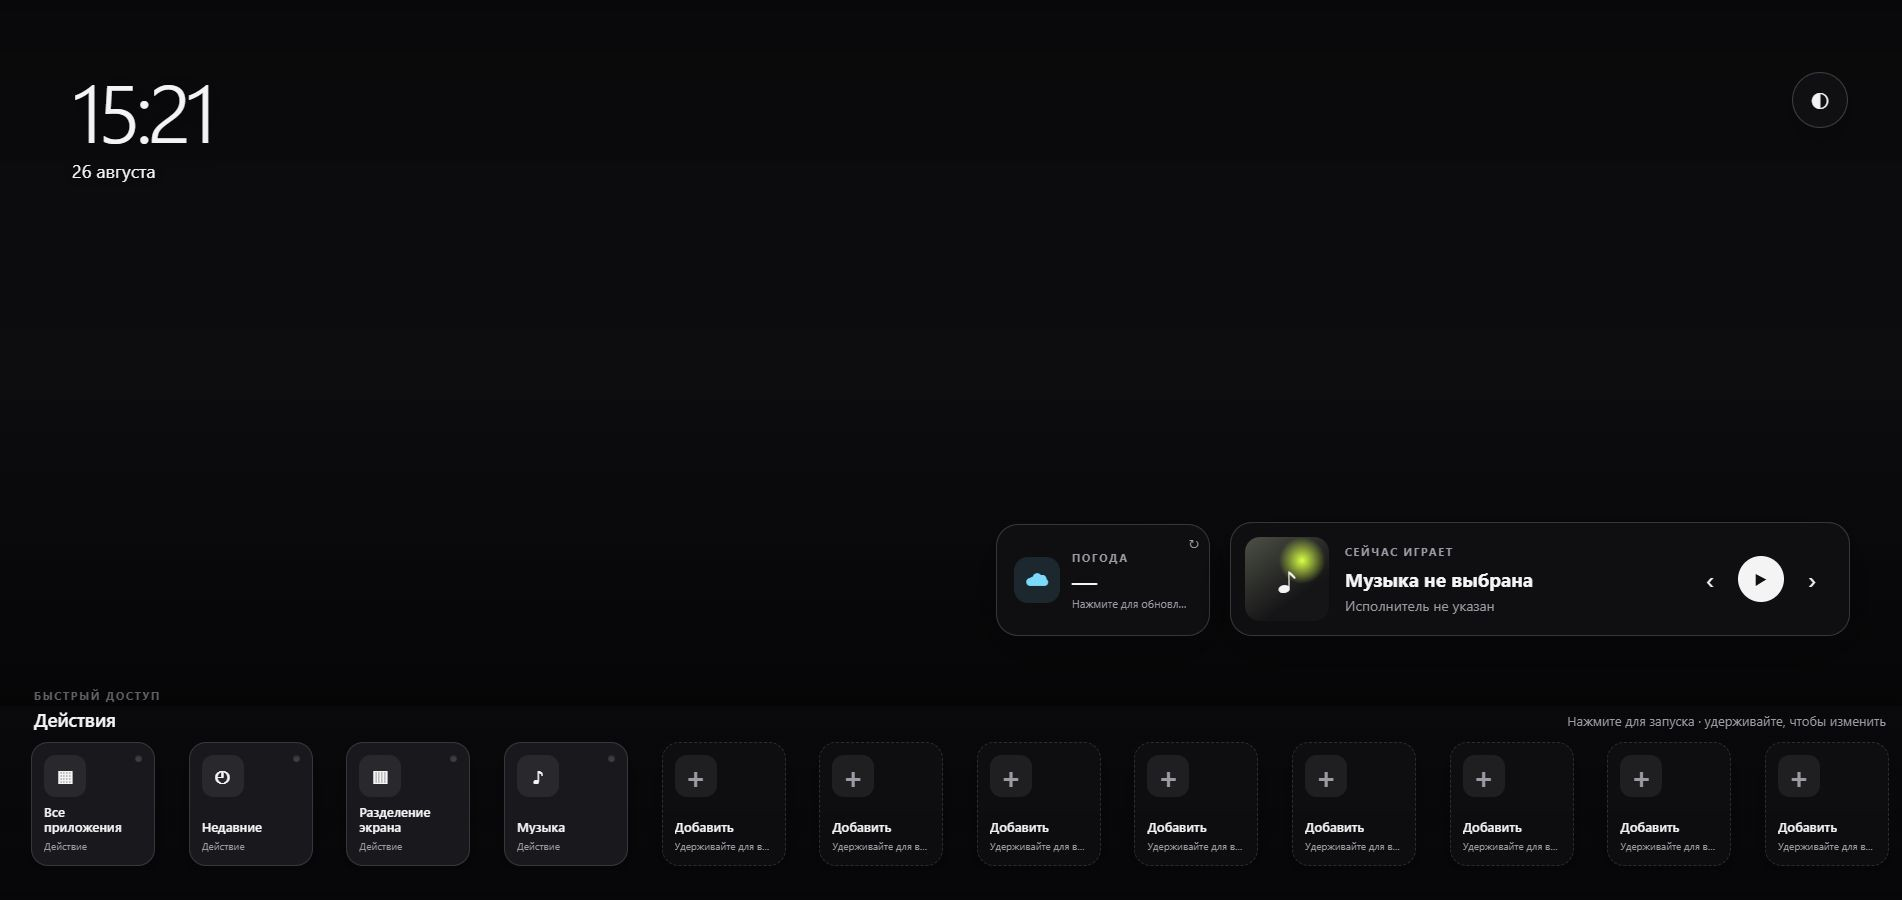
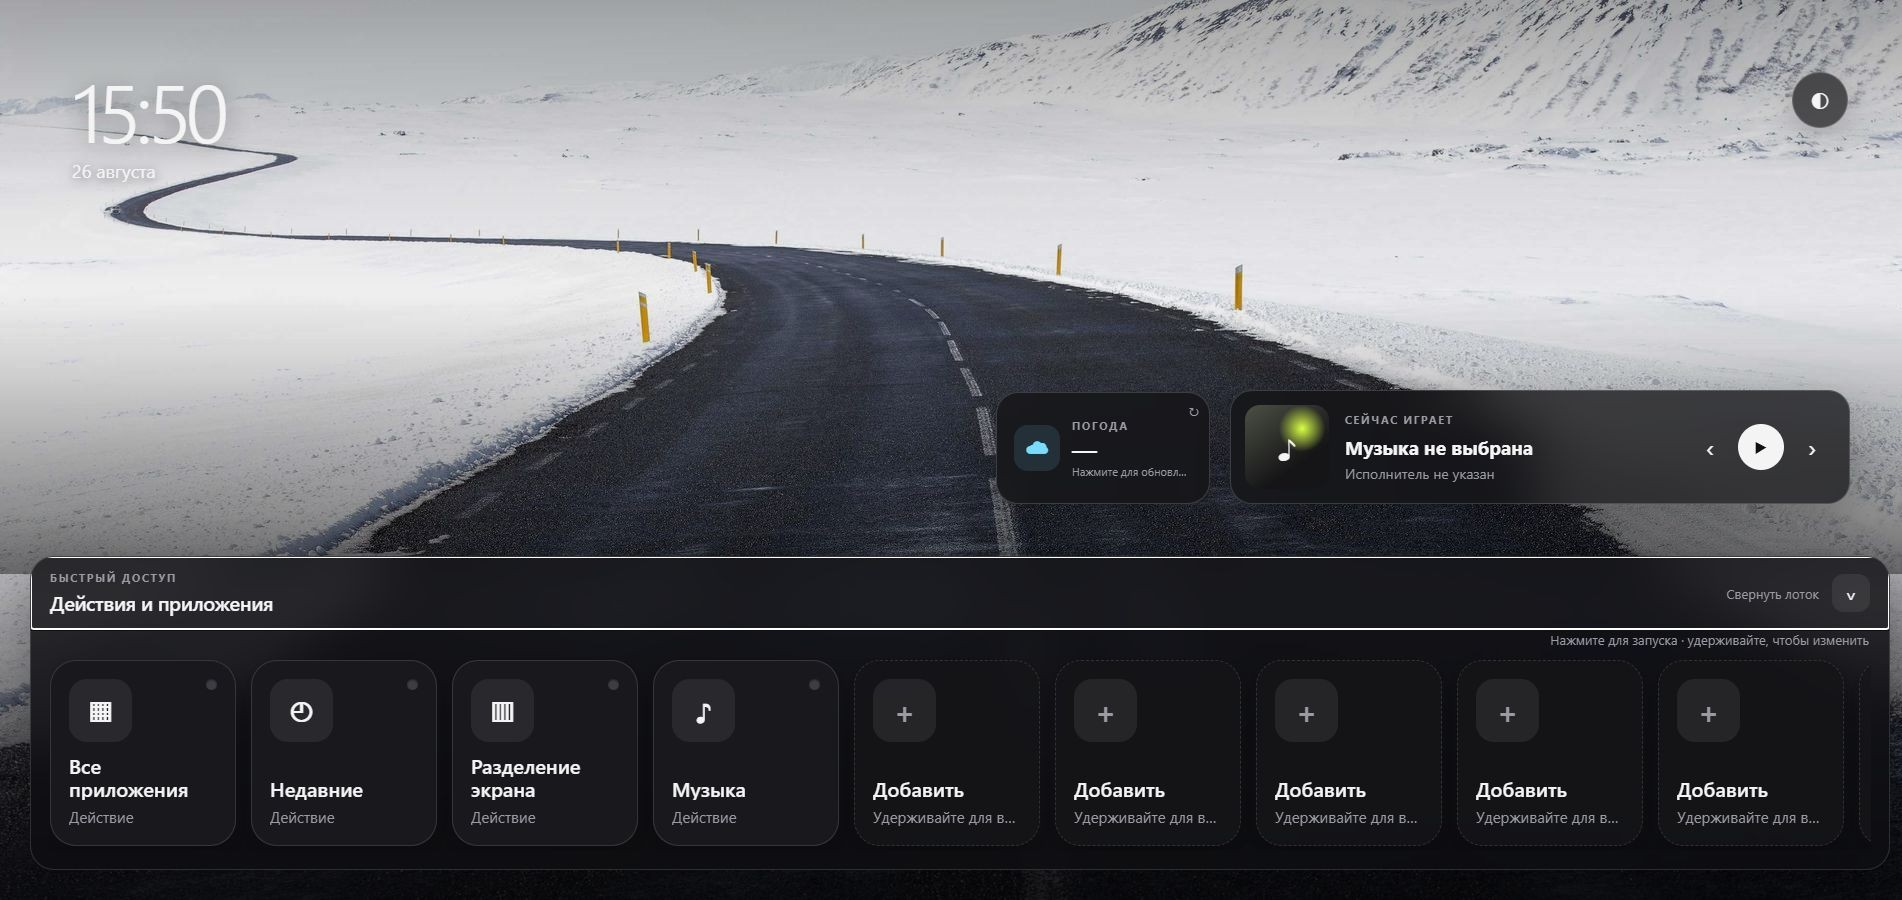
1

diff --git a/styles.css b/styles.css
@@ -54,27 +54,33 @@ button { color: inherit; }
 .player-controls button:active { background: var(--surface-soft); transform: scale(.94); }
 .player-controls .play { background: var(--text); color: #111; font-size: 15px; }
 
-.actions-section { min-width: 0; }
-.actions-header { display: flex; align-items: end; justify-content: space-between; padding: 0 4px 8px; }
-.actions-header h1 { margin: 3px 0 0; font-size: 19px; font-weight: 570; letter-spacing: -.02em; }
-.actions-header p { margin: 0 0 3px; color: var(--muted); font-size: 13px; }
-.action-slots { display: grid; grid-template-columns: repeat(12, clamp(106px, 6.6vw, 124px)); justify-content: space-between; gap: 10px; overflow-x: auto; padding: 2px 1px 4px; scrollbar-width: none; }
+.actions-section { min-width: 0; border: 1px solid var(--line); border-radius: 24px; background: rgba(14, 14, 17, .82); backdrop-filter: blur(22px); overflow: hidden; box-shadow: 0 16px 45px rgba(0, 0, 0, .28); }
+.tray-toggle { width: 100%; min-height: 70px; padding: 13px 19px; border: 0; display: flex; align-items: center; justify-content: space-between; gap: 18px; background: rgba(255, 255, 255, .025); color: var(--text); cursor: pointer; text-align: left; }
+.tray-toggle:active { background: rgba(255, 255, 255, .07); }
+.tray-toggle strong { display: block; margin-top: 4px; font-size: 20px; font-weight: 570; letter-spacing: -.02em; }
+.tray-toggle-side { display: flex; align-items: center; gap: 13px; color: var(--muted); font-size: 13px; white-space: nowrap; }
+.tray-chevron { width: 38px; height: 38px; border-radius: 12px; display: grid; place-items: center; background: var(--surface-soft); color: var(--text); font-size: 20px; transition: transform .22s ease; }
+.actions-section:not(.collapsed) .tray-chevron { transform: rotate(180deg); }
+.tray-content { max-height: 290px; padding: 0 18px 18px; opacity: 1; transition: max-height .25s ease, opacity .18s ease, padding .25s ease; }
+.actions-section.collapsed .tray-content { max-height: 0; padding-top: 0; padding-bottom: 0; opacity: 0; pointer-events: none; }
+.tray-hint { margin: 0; padding: 2px 2px 10px; color: var(--muted); font-size: 13px; text-align: right; }
+.action-slots { display: grid; grid-template-columns: repeat(12, clamp(159px, 9.9vw, 186px)); gap: 15px; overflow-x: auto; padding: 2px 1px 5px; scrollbar-width: none; }
 .action-slots::-webkit-scrollbar { display: none; }
-.action-slot { min-width: 106px; aspect-ratio: 1 / 1; border: 1px solid var(--line); border-radius: 17px; padding: 12px; display: flex; flex-direction: column; align-items: flex-start; justify-content: space-between; position: relative; overflow: hidden; background: rgba(27, 27, 31, .9); backdrop-filter: blur(18px); box-shadow: 0 10px 28px rgba(0, 0, 0, .22); cursor: pointer; text-align: left; user-select: none; touch-action: manipulation; transition: transform .13s ease, border-color .18s ease, background .18s ease; }
+.action-slot { min-width: 159px; aspect-ratio: 1 / 1; border: 1px solid var(--line); border-radius: 26px; padding: 18px; display: flex; flex-direction: column; align-items: flex-start; justify-content: space-between; position: relative; overflow: hidden; background: rgba(27, 27, 31, .9); backdrop-filter: blur(18px); box-shadow: 0 10px 28px rgba(0, 0, 0, .22); cursor: pointer; text-align: left; user-select: none; touch-action: manipulation; transition: transform .13s ease, border-color .18s ease, background .18s ease; }
 .action-slot:active { transform: scale(.97); }
 .action-slot.running { border-color: rgba(216, 255, 69, .58); background: linear-gradient(145deg, rgba(216, 255, 69, .14), var(--surface) 58%); }
-.action-icon { width: 42px; height: 42px; border-radius: 12px; display: grid; place-items: center; overflow: hidden; background: var(--surface-soft); font-size: 19px; font-weight: 750; }
+.action-icon { width: 63px; height: 63px; border-radius: 18px; display: grid; place-items: center; overflow: hidden; background: var(--surface-soft); font-size: 29px; font-weight: 750; }
 .action-icon img { width: 72%; height: 72%; object-fit: contain; }
 .action-main { width: 100%; min-width: 0; }
-.action-main strong { display: -webkit-box; font-size: 13px; font-weight: 570; line-height: 1.16; overflow: hidden; -webkit-line-clamp: 2; -webkit-box-orient: vertical; }
-.action-main span { display: block; margin-top: 5px; color: var(--muted); font-size: 10px; overflow: hidden; text-overflow: ellipsis; white-space: nowrap; }
-.level-lamps { display: flex; gap: 5px; position: absolute; right: 11px; top: 11px; }
-.level-lamps i, .single-lamp { width: 7px; height: 7px; border-radius: 50%; background: #3d3d43; box-shadow: inset 0 1px 2px rgba(0, 0, 0, .45); }
+.action-main strong { display: -webkit-box; font-size: 20px; font-weight: 570; line-height: 1.16; overflow: hidden; -webkit-line-clamp: 2; -webkit-box-orient: vertical; }
+.action-main span { display: block; margin-top: 7px; color: var(--muted); font-size: 15px; overflow: hidden; text-overflow: ellipsis; white-space: nowrap; }
+.level-lamps { display: flex; gap: 7px; position: absolute; right: 17px; top: 17px; }
+.level-lamps i, .single-lamp { width: 11px; height: 11px; border-radius: 50%; background: #3d3d43; box-shadow: inset 0 1px 2px rgba(0, 0, 0, .45); }
 .level-lamps i.on { background: var(--accent); box-shadow: 0 0 11px rgba(216, 255, 69, .8); }
 .action-slot.cool .level-lamps i.on { background: var(--blue); box-shadow: 0 0 11px rgba(121, 220, 255, .8); }
 .action-slot.has-level.warm .action-icon { color: #ffad7c; background: rgba(255, 142, 92, .12); }
 .action-slot.has-level.cool .action-icon { color: var(--blue); background: rgba(121, 220, 255, .12); }
-.single-lamp { position: absolute; right: 12px; top: 12px; }
+.single-lamp { position: absolute; right: 18px; top: 18px; }
 .action-slot.running .single-lamp { background: var(--accent); box-shadow: 0 0 11px rgba(216, 255, 69, .8); }
 .empty-slot { border-style: dashed; background: rgba(255, 255, 255, .025); }
 .empty-slot .action-icon { color: var(--muted); font-size: 30px; }
@@ -103,7 +109,7 @@ button { color: inherit; }
 .toast { position: fixed; z-index: 50; left: 50%; bottom: 24px; max-width: min(520px, calc(100vw - 40px)); padding: 13px 20px; border: 1px solid var(--line); border-radius: 999px; background: rgba(36, 36, 41, .96); box-shadow: 0 14px 40px rgba(0, 0, 0, .36); opacity: 0; pointer-events: none; transform: translate(-50%, 14px); transition: .2s ease; }
 .toast.visible { opacity: 1; transform: translate(-50%, 0); }
 
-@media (max-height: 780px) { .dashboard { grid-template-rows: minmax(300px, 1fr) auto; } .hero-bottom { bottom: 18px; } }
+@media (max-height: 780px) { .dashboard { grid-template-rows: minmax(250px, 1fr) auto; } .hero-bottom { bottom: 18px; } .tray-content { max-height: 260px; } }
 @media (max-width: 920px) { .dashboard { padding: 14px; } .weather-widget { min-width: 170px; } .player-widget { min-width: 280px; } .picker-grid { grid-template-columns: repeat(2, minmax(0, 1fr)); } }
-@media (max-width: 680px) { .dashboard { grid-template-rows: minmax(340px, 1fr) auto; } .hero-topbar { padding: 22px; } .clock { font-size: 52px; } .system-actions button { width: 48px; height: 48px; } .hero-bottom { left: 16px; right: 16px; bottom: 16px; } .weather-widget { display: none; } .player-widget { width: 100%; } .album-art { width: 72px; height: 72px; } .actions-header p { display: none; } .picker-grid { grid-template-columns: 1fr; } .sheet-backdrop { padding: 9px; } .picker-sheet { padding: 18px; border-radius: 23px; } }
+@media (max-width: 680px) { .dashboard { grid-template-rows: minmax(300px, 1fr) auto; } .hero-topbar { padding: 22px; } .clock { font-size: 52px; } .system-actions button { width: 48px; height: 48px; } .hero-bottom { left: 16px; right: 16px; bottom: 16px; } .weather-widget { display: none; } .player-widget { width: 100%; } .album-art { width: 72px; height: 72px; } .tray-toggle-side > span:first-child, .tray-hint { display: none; } .tray-toggle { min-height: 62px; } .picker-grid { grid-template-columns: 1fr; } .sheet-backdrop { padding: 9px; } .picker-sheet { padding: 18px; border-radius: 23px; } }
 @media (prefers-reduced-motion: reduce) { *, *::before, *::after { transition-duration: .01ms !important; } }

diff --git a/app.js b/app.js
@@ -2,6 +2,7 @@ const TOKEN = "SECURE_TOKEN_2025";
 const SLOT_COUNT = 12;
 const STORAGE_KEY = "generic_launcher_slots_v1";
 const WEATHER_STORAGE_KEY = "generic_launcher_weather_v1";
+const TRAY_OPEN_STORAGE_KEY = "generic_launcher_tray_open_v1";
 const WEATHER_REFRESH_MS = 30 * 60 * 1000;
 
 const FALLBACK_ACTIONS = [
@@ -87,6 +88,23 @@ const state = {
   query: "",
   toastTimer: null
 };
+
+function loadTrayOpen() {
+  try { return localStorage.getItem(TRAY_OPEN_STORAGE_KEY) === "true"; }
+  catch { return false; }
+}
+
+function setTrayOpen(open, persist = true) {
+  const section = document.querySelector(".actions-section");
+  const toggle = document.getElementById("tray-toggle");
+  const label = document.getElementById("tray-toggle-label");
+  section.classList.toggle("collapsed", !open);
+  toggle.setAttribute("aria-expanded", String(open));
+  label.textContent = open ? "Свернуть лоток" : "Развернуть лоток";
+  if (persist) {
+    try { localStorage.setItem(TRAY_OPEN_STORAGE_KEY, String(open)); } catch { }
+  }
+}
 
 const bridge = {
   available() { return !!(window.androidApi && typeof window.androidApi === "object"); },
@@ -617,6 +635,11 @@ document.addEventListener("DOMContentLoaded", () => {
   applyWeather(bridge.getWeather());
   setInterval(refreshWeather, WEATHER_REFRESH_MS);
   renderSlots();
+  setTrayOpen(loadTrayOpen(), false);
+  document.getElementById("tray-toggle").addEventListener("click", () => {
+    const expanded = document.getElementById("tray-toggle").getAttribute("aria-expanded") === "true";
+    setTrayOpen(!expanded);
+  });
   document.querySelectorAll("[data-media]").forEach(button => button.addEventListener("click", () => runCommand(button.dataset.media, "Команда плеера", button)));
   document.getElementById("wallpaper-button").addEventListener("click", () => setHeroWallpaper(true));
   document.getElementById("weather-widget").addEventListener("click", () => refreshWeather(true));

diff --git a/index.html b/index.html
@@ -5,7 +5,7 @@
   <meta name="viewport" content="width=device-width, initial-scale=1, maximum-scale=1, user-scalable=no, viewport-fit=cover">
   <meta name="theme-color" content="#0a0a0c">
   <title>Generic Launcher</title>
-  <link rel="stylesheet" href="styles.css?v=1.0.0">
+  <link rel="stylesheet" href="styles.css?v=1.1.0">
 </head>
 <body>
   <main class="dashboard" aria-label="Generic Launcher">
@@ -48,15 +48,21 @@
       </div>
     </section>
 
-    <section class="actions-section" aria-labelledby="actions-title">
-      <header class="actions-header">
+    <section class="actions-section collapsed" aria-labelledby="actions-title">
+      <button type="button" class="tray-toggle" id="tray-toggle" aria-expanded="false" aria-controls="tray-content">
         <div>
           <div class="eyebrow">БЫСТРЫЙ ДОСТУП</div>
-          <h1 id="actions-title">Действия</h1>
+          <strong id="actions-title">Действия и приложения</strong>
         </div>
-        <p>Нажмите для запуска · удерживайте, чтобы изменить</p>
-      </header>
-      <div class="action-slots" id="action-slots" aria-live="polite"></div>
+        <span class="tray-toggle-side">
+          <span id="tray-toggle-label">Развернуть лоток</span>
+          <span class="tray-chevron" aria-hidden="true">⌃</span>
+        </span>
+      </button>
+      <div class="tray-content" id="tray-content">
+        <p class="tray-hint">Нажмите для запуска · удерживайте, чтобы изменить</p>
+        <div class="action-slots" id="action-slots" aria-live="polite"></div>
+      </div>
     </section>
   </main>
 
@@ -84,6 +90,6 @@
   </div>
 
   <div class="toast" id="toast" role="status" aria-live="polite"></div>
-  <script src="app.js?v=1.0.0"></script>
+  <script src="app.js?v=1.1.0"></script>
 </body>
 </html>
